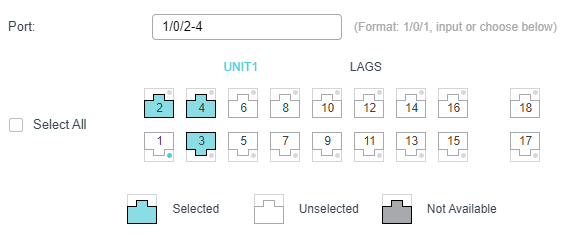
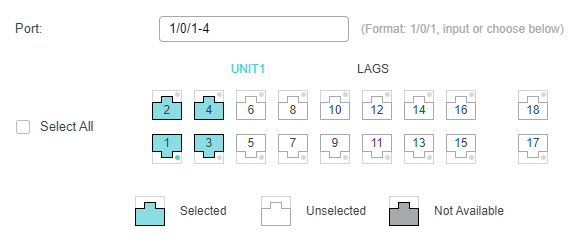
cms

diff --git a/tema6/ej3/Working with switches (CMS).md b/tema6/ej3/Working with switches (CMS).md
@@ -61,6 +61,8 @@
 
 <img src="img/6.png">
 
+<p>*Seleccionamos el puerto 1 porque es el asignado de forma predeterminada para la salida a Internet.</p>
+
 <p>Hacemos lo mismo para la VLAN dedicada a todas las aulas del centro.</p>
 
 <img src="img/7.png">
